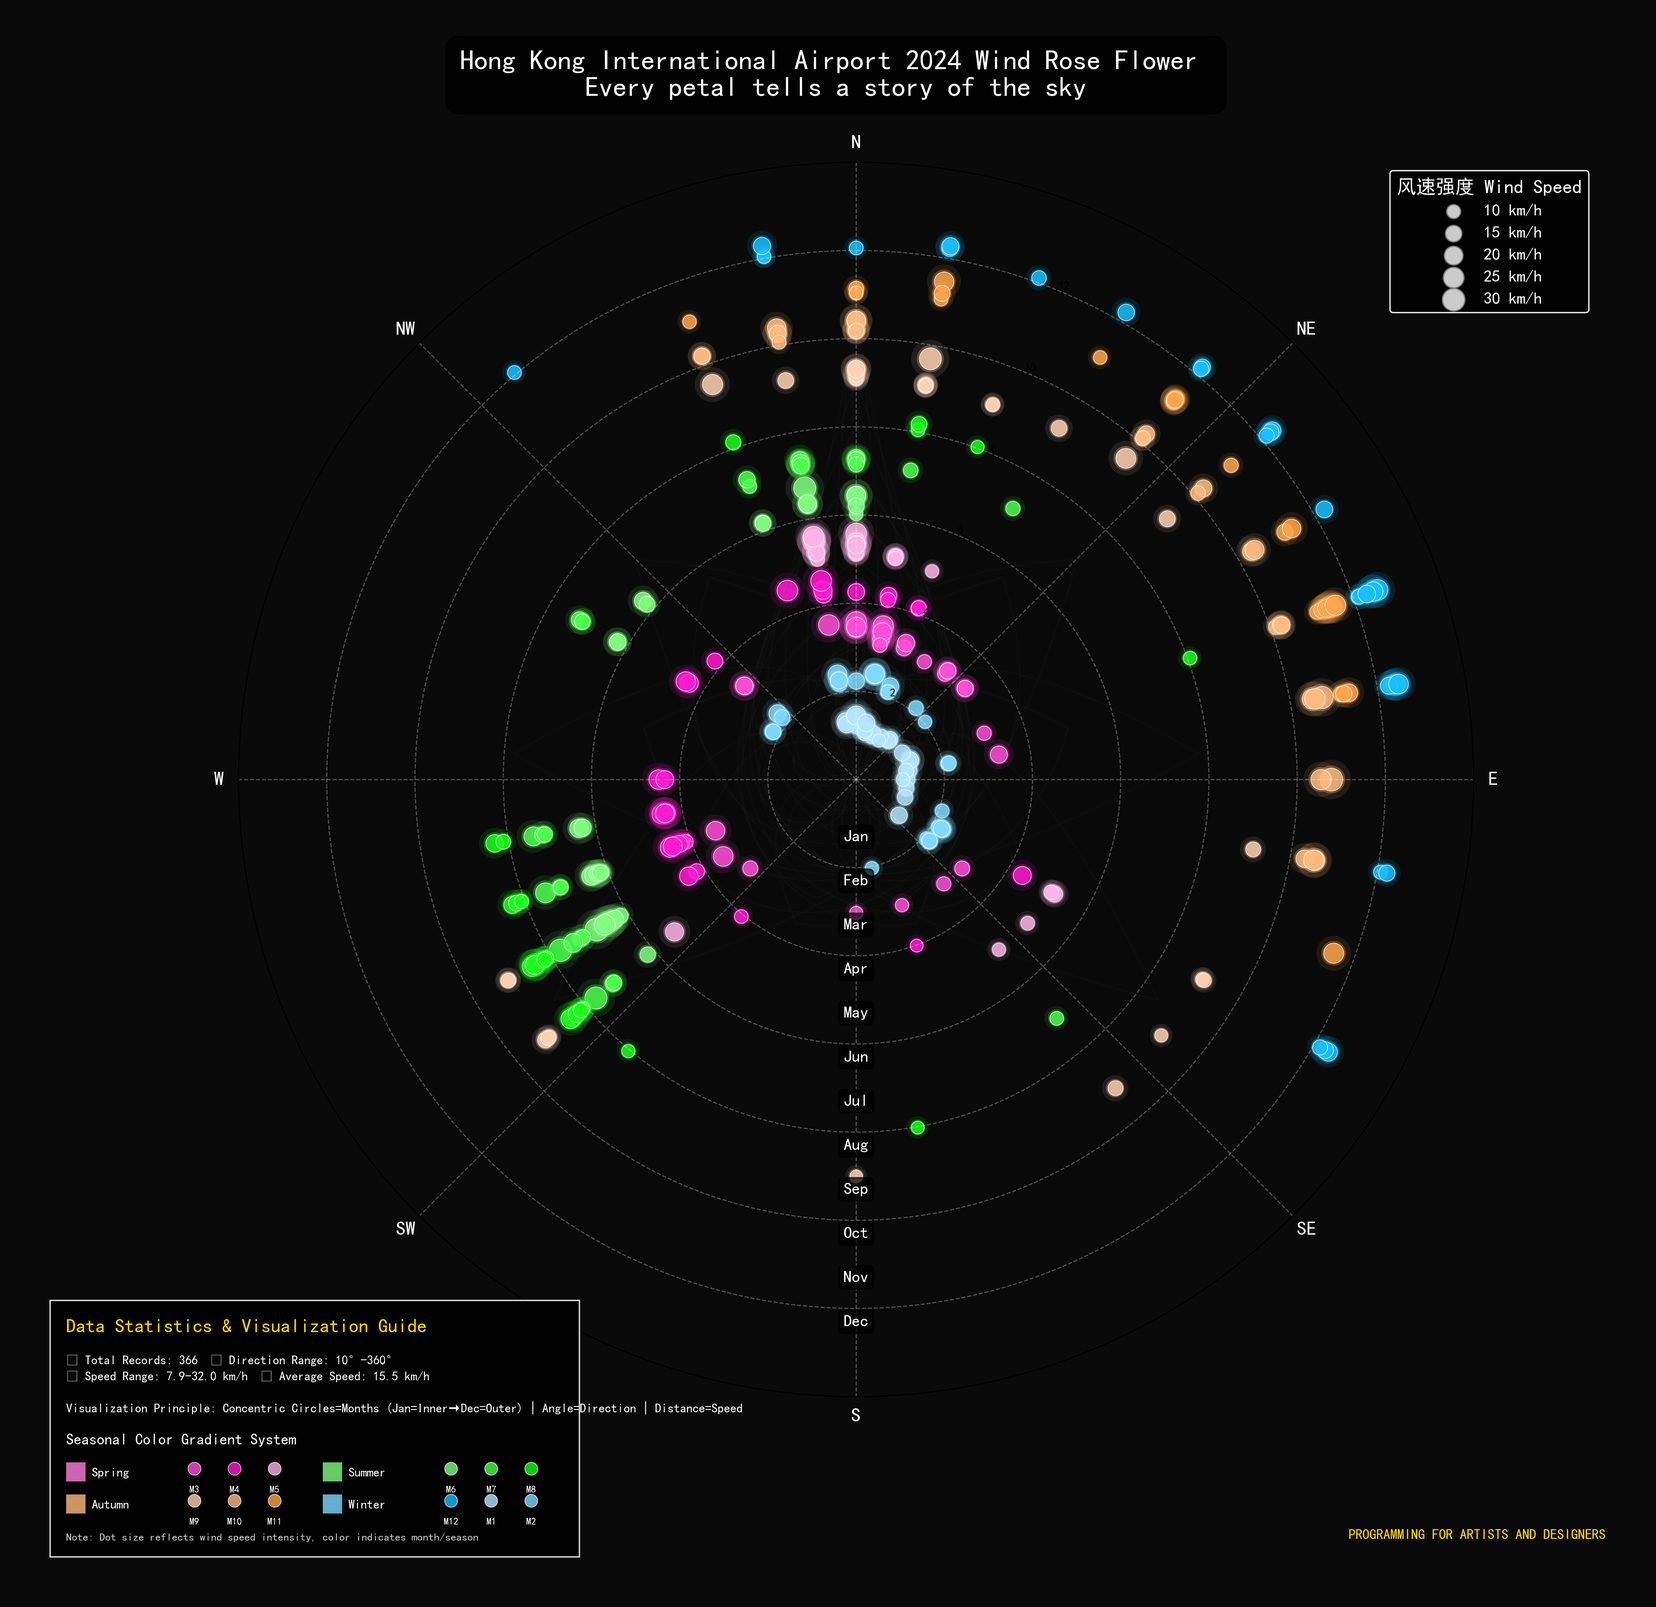
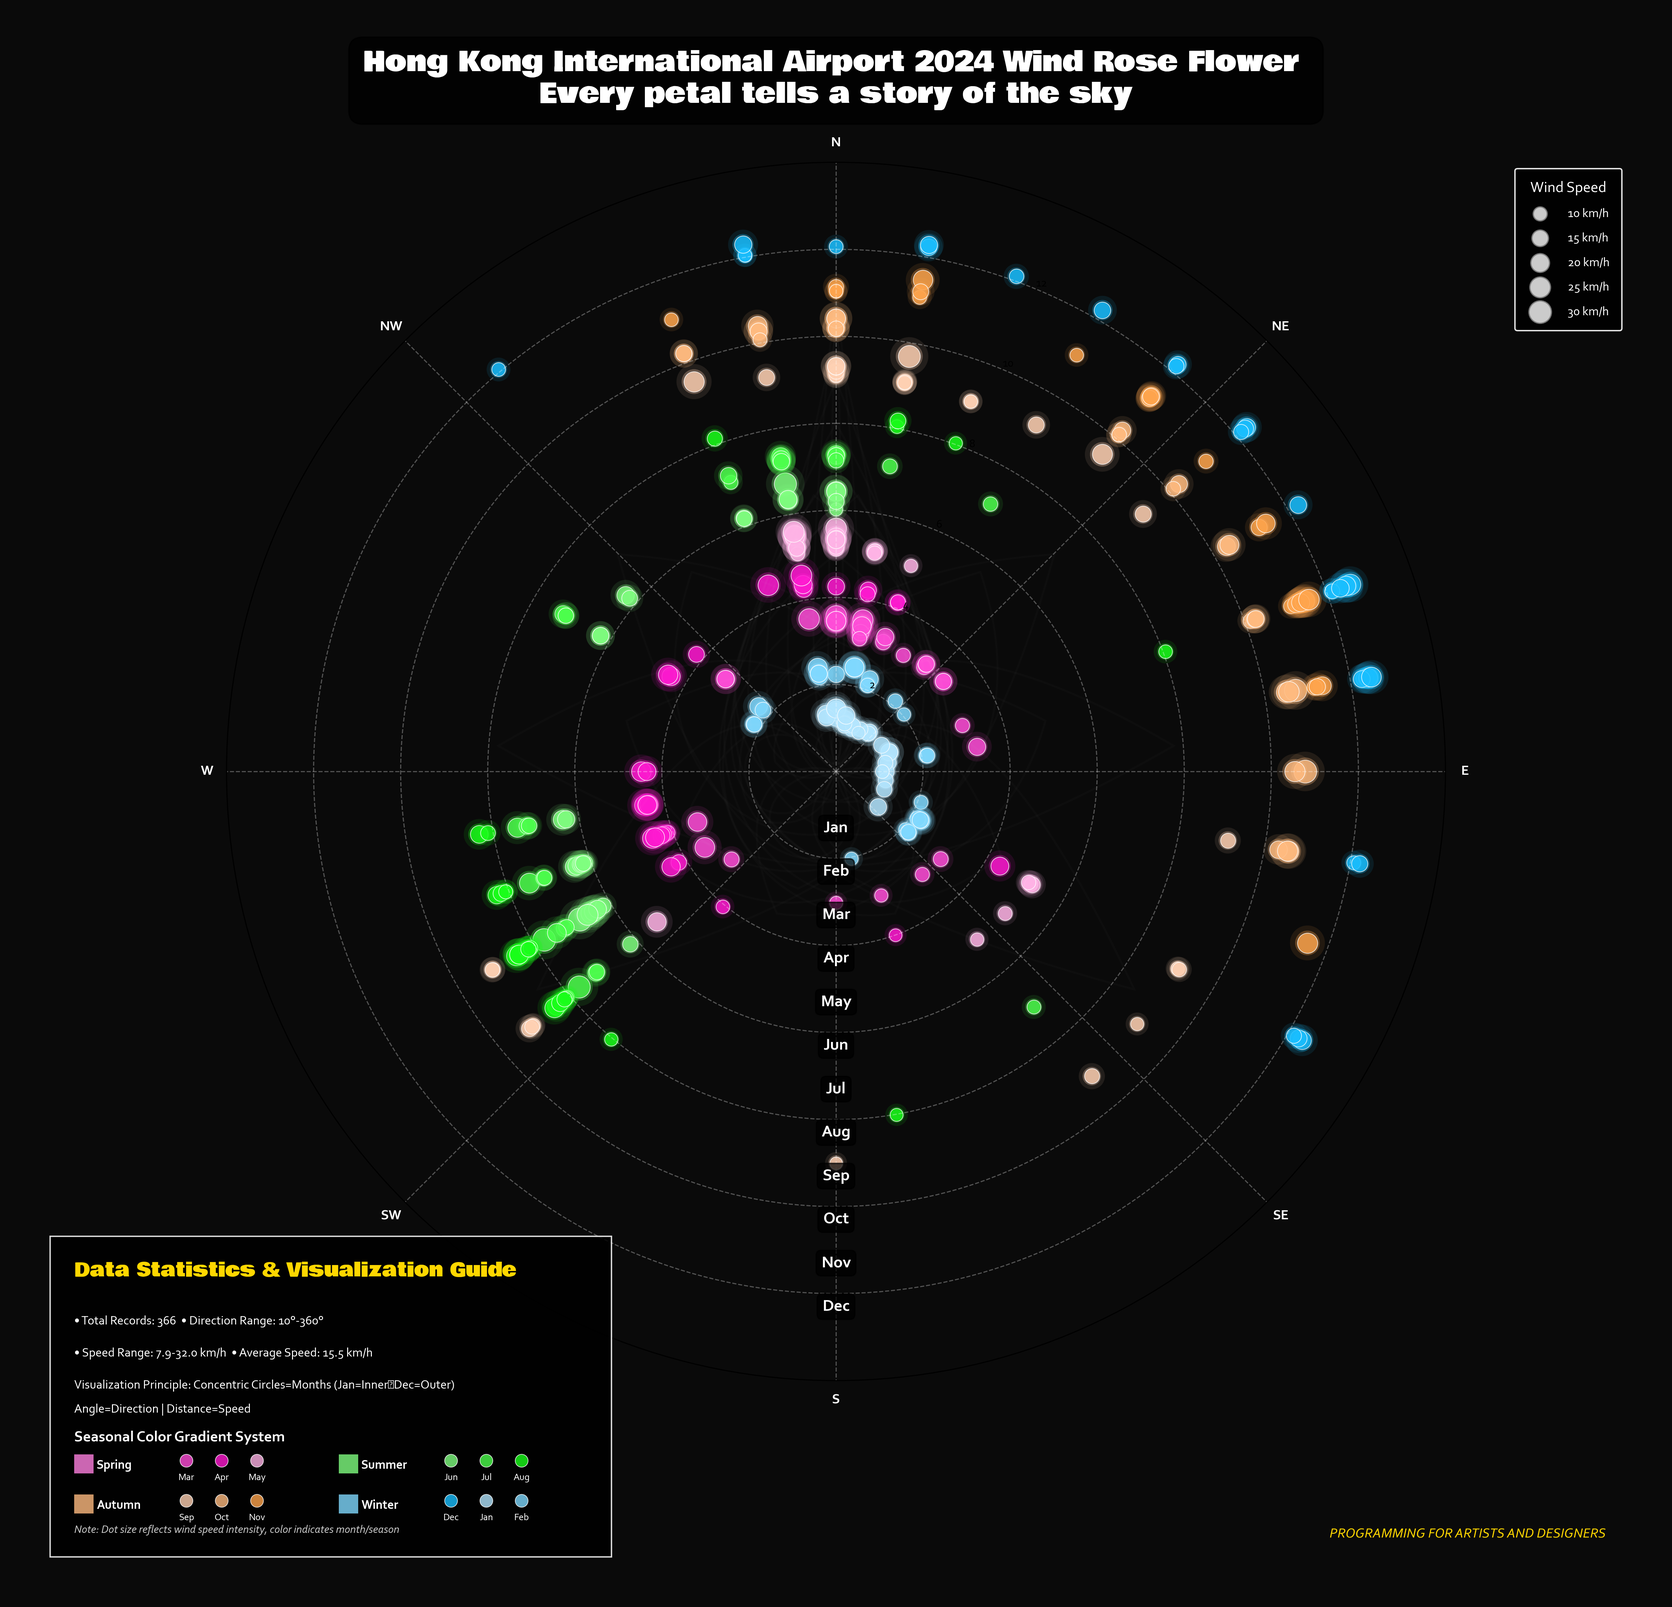
Flower.3

diff --git a/Wind-data-visualization/simple_wind_flower.py b/Wind-data-visualization/simple_wind_flower.py
@@ -31,8 +31,8 @@ warnings.filterwarnings('ignore')
 print(f"System encoding: {sys.stdout.encoding}")
 print(f"Local encoding: {locale.getpreferredencoding()}")
 
-# Configure matplotlib for optimal display and rendering
-plt.rcParams['font.sans-serif'] = ['SimHei', 'DejaVu Sans']
+# Configure matplotlib for optimal display and rendering - optimized for performance
+plt.rcParams['font.sans-serif'] = ['Corbel', 'SimHei', 'DejaVu Sans']
 plt.rcParams['axes.unicode_minus'] = False
 plt.rcParams['figure.dpi'] = 100
 plt.rcParams['savefig.dpi'] = 300
@@ -40,6 +40,11 @@ plt.rcParams['axes.titlesize'] = 'large'
 plt.rcParams['axes.labelsize'] = 'medium'
 plt.rcParams['xtick.labelsize'] = 'small'
 plt.rcParams['ytick.labelsize'] = 'small'
+
+# Performance optimization settings
+plt.rcParams['agg.path.chunksize'] = 10000  # Reduce path rendering overhead
+plt.rcParams['path.simplify'] = True        # Simplify paths for faster rendering
+plt.rcParams['figure.max_open_warning'] = 0 # Disable figure limit warnings
 
 # Set display backend for better window management
 import matplotlib
@@ -59,10 +64,16 @@ if sys.platform.startswith('win'):
 
 class SimpleWindFlowerVisualizer:
     def __init__(self):
-        """Initialize the visualizer"""
+        """Initialize the visualizer with font caching for performance"""
         self.wind_direction_data = None
         self.wind_speed_data = None
         self.combined_data = None
+        
+        # Cache font properties for better performance
+        self.bowlby_props = {'family': 'Bowlby One', 'weight': 'bold'}
+        self.corbel_props = {'family': 'Corbel'}
+        self.corbel_bold_props = {'family': 'Corbel', 'weight': 'bold'}
+        self.corbel_italic_props = {'family': 'Corbel', 'style': 'italic'}
     
     def parse_xml_data(self, wind_dir_file, wind_speed_file):
         """Parse XML files and extract data"""
@@ -157,9 +168,12 @@ class SimpleWindFlowerVisualizer:
         """Create beautiful wind flower visualization with simple single rendering"""
         print("🌸 Creating beautiful wind flower visualization...")
         
-        # Create figure with optimized settings
+        # Create figure with optimized settings and better layout
         fig = plt.figure(figsize=(16, 16), facecolor='#0a0a0a', dpi=100)
         ax = plt.subplot(111, projection='polar', facecolor='#0a0a0a')
+        
+        # Set balanced margins for optimal design layout
+        fig.subplots_adjust(left=0.1, right=0.9, top=0.88, bottom=0.12)
 
         # Define beautiful seasonal colors
         season_palettes = {
@@ -214,7 +228,7 @@ class SimpleWindFlowerVisualizer:
             
             # Main rings
             circle = Circle((0, 0), month * 1.0, fill=False, 
-                          color=circle_color, alpha=circle_alpha, linewidth=1)
+                          color=circle_color, alpha=circle_alpha, linewidth=1.5)
             ax.add_patch(circle)
 
         # Add month labels
@@ -225,18 +239,18 @@ class SimpleWindFlowerVisualizer:
             radius_pos = month * 1.0 + 0.3
             ax.text(np.pi, radius_pos, month_names[month-1], 
                    ha='center', va='center', color='white', 
-                   fontsize=12, fontweight='bold',
+                   fontsize=12, fontproperties=self.corbel_bold_props,
                    bbox=dict(boxstyle="round,pad=0.3", facecolor='black', alpha=0.7))
 
         # Set polar coordinate style
         ax.set_theta_zero_location('N')
         ax.set_theta_direction(-1)
         
-        # Set angle labels
+        # Set angle labels - optimized
         ax.set_thetagrids(np.arange(0, 360, 45), 
                          ['N', 'NE', 'E', 'SE', 
                           'S', 'SW', 'W', 'NW'],
-                         fontsize=14, color='white', fontweight='bold')
+                         fontsize=14, color='white', fontproperties=self.corbel_bold_props)
         
         # Set radius range and labels
         ax.set_ylim(0, 14)
@@ -246,21 +260,21 @@ class SimpleWindFlowerVisualizer:
         ax.grid(True, alpha=0.3, color='white', linestyle='--')
         ax.set_facecolor('#0a0a0a')
         
-        # Beautiful title
-        title_text = '🌸 Hong Kong International Airport 2024 Wind Rose Flower \n' + \
+        # Beautiful title - positioned higher with larger font
+        title_text = 'Hong Kong International Airport 2024 Wind Rose Flower \n' + \
                     'Every petal tells a story of the sky'
 
         plt.suptitle(title_text, fontsize=20, color='white', 
-                    y=0.95, fontweight='bold', 
+                    y=0.95, fontproperties=self.bowlby_props,
                     bbox=dict(boxstyle="round,pad=0.5", facecolor='black', alpha=0.8))
 
         # Add simple annotations and legends
         self._add_simple_annotations(fig, ax)
         
-        # Artistic signature
+        # Artistic signature - optimized
         plt.figtext(0.98, 0.02, 
                    'PROGRAMMING FOR ARTISTS AND DESIGNERS',
-                   fontsize=10, color='#FFD700', style='italic',
+                   fontsize=10, color='#FFD700', fontproperties=self.corbel_italic_props,
                    horizontalalignment='right', verticalalignment='bottom')
 
         # Save high-quality PNG
@@ -291,37 +305,43 @@ class SimpleWindFlowerVisualizer:
             12: season_palettes['Winter'][3], 1: season_palettes['Winter'][0], 2: season_palettes['Winter'][1]
         }
         
-        # Create annotation background
-        annotation_bg = Rectangle((0.01, 0.01), 0.33, 0.16, 
+        # Create annotation background (optimized for larger window)
+        annotation_bg = Rectangle((0.01, 0.01), 0.35, 0.20, 
                                 transform=fig.transFigure, 
                                 facecolor='black', alpha=0.85, 
                                 edgecolor='white', linewidth=1)
         fig.patches.append(annotation_bg)
         
-        # Main title
-        plt.figtext(0.02, 0.15, 'Data Statistics & Visualization Guide', 
-                   fontsize=14, fontweight='bold', color='#FFD700')
+        # Main title (with more top margin) - optimized
+        plt.figtext(0.025, 0.185, 'Data Statistics & Visualization Guide', 
+                   fontsize=14, color='#FFD700', fontproperties=self.bowlby_props)
         
-        # Data statistics
+        # Data statistics (increased line spacing)
         stats_line1 = f"• Total Records: {len(self.combined_data)}  • Direction Range: {self.combined_data['direction'].min():.0f}°-{self.combined_data['direction'].max():.0f}°"
         stats_line2 = f"• Speed Range: {self.combined_data['speed'].min():.1f}-{self.combined_data['speed'].max():.1f} km/h  • Average Speed: {self.combined_data['speed'].mean():.1f} km/h"
         
-        plt.figtext(0.02, 0.13, stats_line1, fontsize=9, color='white')
-        plt.figtext(0.02, 0.12, stats_line2, fontsize=9, color='white')
+        plt.figtext(0.025, 0.155, stats_line1, fontsize=9, color='white', fontproperties=self.corbel_props)
+        plt.figtext(0.025, 0.135, stats_line2, fontsize=9, color='white', fontproperties=self.corbel_props)
         
-        # Visualization explanation
-        plt.figtext(0.02, 0.10, 'Visualization Principle: Concentric Circles=Months (Jan=Inner→Dec=Outer) | Angle=Direction | Distance=Speed', 
-                   fontsize=9, color='white')
+        # Visualization explanation (split into two lines to fit within frame) - optimized
+        plt.figtext(0.025, 0.115, 'Visualization Principle: Concentric Circles=Months (Jan=Inner→Dec=Outer)', 
+                   fontsize=9, color='white', fontproperties=self.corbel_props)
+        plt.figtext(0.025, 0.100, 'Angle=Direction | Distance=Speed', 
+                   fontsize=9, color='white', fontproperties=self.corbel_props)
         
-        # Seasonal color system title
-        plt.figtext(0.02, 0.08, 'Seasonal Color Gradient System', 
-                   fontsize=11, fontweight='bold', color='white')
+        # Seasonal color system title - using regular text font
+        plt.figtext(0.025, 0.082, 'Seasonal Color Gradient System', 
+                   fontsize=11, color='white', fontproperties=self.corbel_bold_props)
         
         # Draw seasonal colors
         seasons_layout = [
-            [('Spring', [3, 4, 5], 0.02, 0.06), ('Summer', [6, 7, 8], 0.18, 0.06)],
-            [('Autumn', [9, 10, 11], 0.02, 0.04), ('Winter', [12, 1, 2], 0.18, 0.04)]
+            [('Spring', [3, 4, 5], 0.025, 0.065), ('Summer', [6, 7, 8], 0.19, 0.065)],
+            [('Autumn', [9, 10, 11], 0.025, 0.040), ('Winter', [12, 1, 2], 0.19, 0.040)]
         ]
+        
+        # Month names for better readability
+        month_names_map = {1: 'Jan', 2: 'Feb', 3: 'Mar', 4: 'Apr', 5: 'May', 6: 'Jun',
+                          7: 'Jul', 8: 'Aug', 9: 'Sep', 10: 'Oct', 11: 'Nov', 12: 'Dec'}
         
         for row in seasons_layout:
             for season_name, months, x_pos, y_pos in row:
@@ -335,27 +355,48 @@ class SimpleWindFlowerVisualizer:
                                           facecolor=main_color, alpha=0.8)
                     fig.patches.append(season_rect)
                 
-                # Season title
-                plt.figtext(x_pos + 0.016, y_pos, season_name, 
-                           fontsize=9, fontweight='bold', color='white')
+                # Season title (closer to the color square) - optimized
+                plt.figtext(x_pos + 0.014, y_pos, season_name, 
+                           fontsize=9, color='white', fontproperties=self.corbel_bold_props)
                 
-                # Month dots
-                month_x_start = x_pos + 0.08
+                # Month dots (closer spacing)
+                month_x_start = x_pos + 0.07
                 for i, month in enumerate(months):
                     month_color = month_colors[month]
-                    month_circle = plt.Circle((month_x_start + i*0.025, y_pos+0.005), 0.004,
+                    month_circle = plt.Circle((month_x_start + i*0.022, y_pos+0.005), 0.004,
                                             transform=fig.transFigure,
                                             facecolor=month_color, alpha=0.8,
                                             edgecolor='white', linewidth=0.5)
                     fig.patches.append(month_circle)
                     
-                    # Month labels
-                    plt.figtext(month_x_start + i*0.025, y_pos-0.01, f'M{month}',
-                               fontsize=7, color='white', ha='center')
+                    # Month labels (closer to circles, using Jan/Feb/Mar format) - optimized
+                    plt.figtext(month_x_start + i*0.022, y_pos-0.007, month_names_map[month],
+                               fontsize=7, color='white', ha='center', fontproperties=self.corbel_props)
         
-        # Bottom note
-        plt.figtext(0.02, 0.02, 'Note: Dot size reflects wind speed intensity, color indicates month/season',
-                   fontsize=8, color='#CCCCCC', style='italic')
+        # Wind speed intensity legend (right top corner with improved spacing)
+        speed_legend_elements = []
+        speeds = [10, 15, 20, 25, 30]
+        for speed in speeds:
+            point_size = 20 + speed * 8
+            speed_legend_elements.append(
+                plt.scatter([], [], s=point_size, c='white', alpha=0.8, 
+                          edgecolors='gray', label=f'{speed} km/h'))
+        
+        legend2 = ax.legend(handles=speed_legend_elements, 
+                           title='Wind Speed', 
+                           loc='upper right', bbox_to_anchor=(1.15, 1.0),
+                           title_fontsize=11, fontsize=9,
+                           facecolor='black', edgecolor='white', framealpha=0.9,
+                           columnspacing=2.0, handletextpad=1.2, borderpad=1,
+                           labelspacing=1.0)
+        legend2.get_title().set_color('white')
+        legend2.get_title().set_horizontalalignment('center')
+        for text in legend2.get_texts():
+            text.set_color('white')
+        
+        # Bottom note (with more bottom margin) - optimized
+        plt.figtext(0.025, 0.025, 'Note: Dot size reflects wind speed intensity, color indicates month/season',
+                   fontsize=8, color='#CCCCCC', fontproperties=self.corbel_italic_props)
 
 # Main program
 if __name__ == "__main__":
@@ -375,9 +416,31 @@ if __name__ == "__main__":
         # Create beautiful wind flower visualization
         fig, ax = visualizer.create_simple_wind_flower()
         
-        # Show the visualization
+        # Show the visualization with controlled window size and full content
         print("\n🖥 Opening visualization window...")
-        plt.tight_layout()
+        
+        # Set fixed, well-balanced layout parameters for optimal design
+        plt.subplots_adjust(left=0.12, right=0.88, top=0.88, bottom=0.12)
+        
+        # Get the current figure manager and set window properties
+        mngr = fig.canvas.manager
+        if hasattr(mngr, 'window'):
+            if hasattr(mngr.window, 'wm_geometry'):
+                # For TkAgg backend - set window size, position and title
+                mngr.window.wm_geometry('1500x1500+100+100')
+                mngr.window.wm_title('Hong Kong Airport 2024 Wind Rose Flower - Interactive View')
+            elif hasattr(mngr.window, 'setGeometry'):
+                # For Qt backend - set window geometry and title
+                mngr.window.setGeometry(100, 100, 1500, 1500)
+                mngr.window.setWindowTitle('Hong Kong Airport 2024 Wind Rose Flower - Interactive View')
+        
+        # Enable all toolbar functions for interaction (zoom, pan, home, etc.)
+        if hasattr(mngr, 'toolbar'):
+            mngr.toolbar.update()
+        
+        # Set window to be resizable
+        fig.canvas.mpl_connect('resize_event', lambda event: fig.tight_layout())
+        
         plt.show()
         
         print("\n🌟 Beautiful wind flower visualization created!")

diff --git a/Wind-data-visualization/enhanced_wind_flower.py b/Wind-data-visualization/enhanced_wind_flower.py
@@ -291,36 +291,36 @@ class EnhancedWindFlowerVisualizer:
             12: season_palettes['Winter'][3], 1: season_palettes['Winter'][0], 2: season_palettes['Winter'][1]
         }
         
-        # Create annotation background
-        annotation_bg = Rectangle((0.01, 0.01), 0.33, 0.16, 
+        # Create annotation background (increased height and adjusted position)
+        annotation_bg = Rectangle((0.01, 0.01), 0.35, 0.20, 
                                 transform=fig.transFigure, 
                                 facecolor='black', alpha=0.85, 
                                 edgecolor='white', linewidth=1)
         fig.patches.append(annotation_bg)
         
-        # Main title
-        plt.figtext(0.02, 0.15, 'Data Statistics & Visualization Guide', 
+        # Main title (with more top margin)
+        plt.figtext(0.025, 0.185, 'Data Statistics & Visualization Guide', 
                    fontsize=14, fontweight='bold', color='#FFD700')
         
-        # Data statistics
+        # Data statistics (increased line spacing)
         stats_line1 = f"• Total Records: {len(self.combined_data)}  • Direction Range: {self.combined_data['direction'].min():.0f}°-{self.combined_data['direction'].max():.0f}°"
         stats_line2 = f"• Speed Range: {self.combined_data['speed'].min():.1f}-{self.combined_data['speed'].max():.1f} km/h  • Average Speed: {self.combined_data['speed'].mean():.1f} km/h"
         
-        plt.figtext(0.02, 0.13, stats_line1, fontsize=9, color='white')
-        plt.figtext(0.02, 0.12, stats_line2, fontsize=9, color='white')
+        plt.figtext(0.025, 0.155, stats_line1, fontsize=9, color='white')
+        plt.figtext(0.025, 0.135, stats_line2, fontsize=9, color='white')
         
-        # Visualization explanation
-        plt.figtext(0.02, 0.10, 'Visualization Principle: Concentric Circles=Months (Jan=Inner→Dec=Outer) | Angle=Direction | Distance=Speed', 
+        # Visualization explanation (increased spacing)
+        plt.figtext(0.025, 0.110, 'Visualization Principle: Concentric Circles=Months (Jan=Inner→Dec=Outer) | Angle=Direction | Distance=Speed', 
                    fontsize=9, color='white')
         
-        # Seasonal color system title
-        plt.figtext(0.02, 0.08, 'Seasonal Color Gradient System', 
+        # Seasonal color system title (increased spacing)
+        plt.figtext(0.025, 0.085, 'Seasonal Color Gradient System', 
                    fontsize=11, fontweight='bold', color='white')
         
-        # Draw seasonal colors
+        # Draw seasonal colors (adjusted positions with more spacing)
         seasons_layout = [
-            [('Spring', [3, 4, 5], 0.02, 0.06), ('Summer', [6, 7, 8], 0.18, 0.06)],
-            [('Autumn', [9, 10, 11], 0.02, 0.04), ('Winter', [12, 1, 2], 0.18, 0.04)]
+            [('Spring', [3, 4, 5], 0.025, 0.065), ('Summer', [6, 7, 8], 0.19, 0.065)],
+            [('Autumn', [9, 10, 11], 0.025, 0.040), ('Winter', [12, 1, 2], 0.19, 0.040)]
         ]
         
         for row in seasons_layout:
@@ -363,7 +363,7 @@ class EnhancedWindFlowerVisualizer:
                           edgecolors='gray', label=f'{speed} km/h'))
         
         legend2 = ax.legend(handles=speed_legend_elements, 
-                           title='风速强度 Wind Speed', 
+                           title='Wind Speed', 
                            loc='upper right', bbox_to_anchor=(1.1, 1.0),
                            title_fontsize=14, fontsize=12,
                            facecolor='black', edgecolor='white', framealpha=0.9)
@@ -371,8 +371,8 @@ class EnhancedWindFlowerVisualizer:
         for text in legend2.get_texts():
             text.set_color('white')
         
-        # Bottom note
-        plt.figtext(0.02, 0.02, 'Note: Dot size reflects wind speed intensity, color indicates month/season',
+        # Bottom note (with more bottom margin)
+        plt.figtext(0.025, 0.025, 'Note: Dot size reflects wind speed intensity, color indicates month/season',
                    fontsize=8, color='#CCCCCC', style='italic')
 
 # Main program
